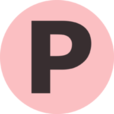
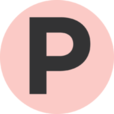
Fixed colors and images

Changed region(s): [[0.2368, 0.1316, 0.7632, 0.8421], [0.3947, 0.2632, 0.6579, 0.5], [0.7368, 0.2632, 0.8158, 0.5263]]

diff --git a/public/css/style.css b/public/css/style.css
@@ -5,13 +5,13 @@
 
 @keyframes fadeInTop {
     0% { top: -30px; opacity: 0; }
-    100% { top: 0px; opacity: 1; }
+    100% { top: 0px; opacity: 0.9; }
 }
 
 @keyframes fadeIn {
     0% { opacity: 0; }
     50% { opacity: 0; }
-    100% { opacity: 1; }
+    100% { opacity: 0.9; }
 }
 
 html, body {
@@ -23,12 +23,12 @@ html {
 }
 
 body, a {
-    color: #372D2E;
+    color: #000000;
 }
 
 body {
     margin: 0;
-    background-color: #f9a9ad;
+    background-color: #F9B7B2;
 }
 
 .flex-container {
@@ -67,7 +67,7 @@ body {
 }
 
 .fade {
-    opacity: 1;
+    opacity: 0.9;
     position: relative;
     animation-iteration-count: 1;
     animation-timing-function: ease-out;
